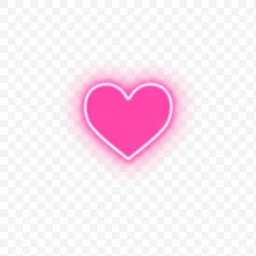
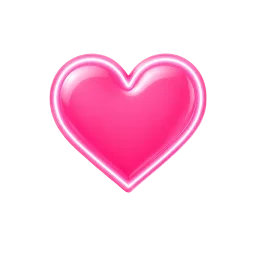
Hearts show lives, anchor to playfield, ignite on streak
- Anchor #heart-decor to the game background's bottom-right corner via
  --bg-left/--bg-right/--bg-bottom CSS vars set on each resize, so the
  hearts never bleed into the letterbox bars.
- Scale hearts with --game-scale (scale * viewScale) so they grow and
  shrink in lockstep with the cup and ball.
- Drive the two hearts as lives (2 - consecutiveMisses): dim a heart on
  a miss, flare both back with a pop-and-glow on reset.
- Add a flickering flame aura while a scoring streak is active, fading
  out gradually when the streak breaks.
- Replace heart.webp with the new artwork; cache-bust the img src.

Changed region(s): [[0.1875, 0.1875, 0.8125, 0.75]]

diff --git a/css/style.css b/css/style.css
@@ -313,26 +313,113 @@ button:active {
    into its place (see :fullscreen and the max-width:900px media query). */
 #heart-decor {
     position: absolute;
-    bottom: max(1.5rem, env(safe-area-inset-bottom, 1.5rem));
-    right: calc(max(1.5rem, env(safe-area-inset-right, 1.5rem)) + 54px + 0.6rem);
-    height: 54px;
+    bottom: calc(var(--bg-bottom, 0px) - 0.5rem);
+    right: calc(var(--bg-right, 0px) + max(0.75rem, env(safe-area-inset-right, 0.75rem)));
+    height: calc(74px * var(--game-scale, 1));
     z-index: 99;
     display: flex;
     align-items: center;
-    gap: 0.1rem;
+    gap: 0;
     pointer-events: none;
 }
 
 #heart-decor img {
-    width: 62px;
-    height: 62px;
+    width: calc(90px * var(--game-scale, 1));
+    height: calc(90px * var(--game-scale, 1));
     display: block;
+    margin-left: calc(-45px * var(--game-scale, 1));
+    transform-origin: center;
+    transition: opacity 0.18s ease, filter 0.18s ease, transform 0.18s ease;
 }
 
-/* Fullscreen mode hides the fullscreen button — hearts take its spot */
-:fullscreen #heart-decor,
-:-webkit-full-screen #heart-decor {
-    right: max(1.5rem, env(safe-area-inset-right, 1.5rem));
+#heart-decor img:first-child {
+    margin-left: 0;
+}
+
+/* A lost life — heart fades out fast and deflates slightly */
+#heart-decor img.heart-dim {
+    opacity: 0.22;
+    filter: grayscale(0.85) brightness(0.55);
+    transform: scale(0.78);
+}
+
+/* Lives refilled — both hearts pop back with a pink glow */
+#heart-decor img.heart-refill {
+    animation: heart-refill 0.6s cubic-bezier(0.34, 1.56, 0.64, 1);
+}
+
+@keyframes heart-refill {
+    0% {
+        opacity: 0.22;
+        filter: grayscale(0.85) brightness(0.55);
+        transform: scale(0.78);
+    }
+    45% {
+        opacity: 1;
+        filter: grayscale(0) brightness(1.5) drop-shadow(0 0 14px #ff4d97);
+        transform: scale(1.28);
+    }
+    70% { transform: scale(0.94); }
+    100% {
+        opacity: 1;
+        filter: none;
+        transform: scale(1);
+    }
+}
+
+/* On a scoring streak — hearts burn with a flickering flame aura */
+#heart-decor img.heart-fire {
+    animation: heart-fire 0.55s ease-in-out infinite;
+}
+/* second heart flickers out of sync so the fire looks alive */
+#heart-decor img.heart-fire:nth-child(2) {
+    animation-delay: -0.28s;
+}
+
+/* Streak broken — flame dies down gradually */
+#heart-decor img.heart-fire-out {
+    animation: heart-fire-out 0.6s ease-out forwards;
+}
+
+@keyframes heart-fire-out {
+    0% {
+        filter: drop-shadow(0 -3px 4px #ffd000)
+                drop-shadow(0 -6px 9px #ff7a00)
+                drop-shadow(0 -4px 15px #ff2500);
+    }
+    100% {
+        filter: drop-shadow(0 0 0 rgba(255, 208, 0, 0))
+                drop-shadow(0 0 0 rgba(255, 122, 0, 0))
+                drop-shadow(0 0 0 rgba(255, 37, 0, 0));
+    }
+}
+
+@keyframes heart-fire {
+    0% {
+        filter: drop-shadow(0 -2px 3px #ffd000)
+                drop-shadow(0 -5px 8px #ff8a00)
+                drop-shadow(0 -3px 13px #ff3000);
+    }
+    25% {
+        filter: drop-shadow(0 -4px 5px #ffe23a)
+                drop-shadow(0 -9px 12px #ff6a00)
+                drop-shadow(0 -6px 20px #ff1500);
+    }
+    50% {
+        filter: drop-shadow(0 -3px 4px #ffd000)
+                drop-shadow(0 -6px 9px #ff7a00)
+                drop-shadow(0 -4px 15px #ff2500);
+    }
+    75% {
+        filter: drop-shadow(0 -5px 6px #ffe23a)
+                drop-shadow(0 -11px 14px #ff5a00)
+                drop-shadow(0 -7px 22px #ff1000);
+    }
+    100% {
+        filter: drop-shadow(0 -2px 3px #ffd000)
+                drop-shadow(0 -5px 8px #ff8a00)
+                drop-shadow(0 -3px 13px #ff3000);
+    }
 }
 
 /* Score Display */
@@ -681,11 +768,7 @@ button:active {
 @media screen and (max-width: 900px) {
     #fullscreen-btn { display: none !important; }
     /* No fullscreen button on mobile — hearts take the rightmost spot */
-    #heart-decor {
-        right: max(1.5rem, env(safe-area-inset-right, 1.5rem));
-        height: 44px;
-    }
-    #heart-decor img { width: 50px; height: 50px; }
+    /* #heart-decor size is driven by --game-scale (set in engine.js) */
 }
 
 /* Mobile Adjustments */

diff --git a/js/engine.js b/js/engine.js
@@ -114,6 +114,8 @@ export function initGame(initialData = { pingpong: { score: 0, bestStreak: 0 }, 
 
         resizeCanvas();
         resetBall();
+        updateLives();
+        updateStreakFire();
         updateScoreDisplay();
     }
 
@@ -192,6 +194,18 @@ export function initGame(initialData = { pingpong: { score: 0, bestStreak: 0 }, 
 
         scale = Math.min(1, Math.max(0.4, height / 650));
         ball.radius = baseRadius * scale;
+
+        // Expose playfield edges + the visual scale (same factor the cup and
+        // ball are drawn at) as CSS vars so DOM overlays can anchor to the bg
+        // and scale with the screen.
+        const gameScreen = document.getElementById('game-screen');
+        if (gameScreen) {
+            const bgBottom = winH - (viewOffsetY + height * viewScale);
+            gameScreen.style.setProperty('--bg-left', viewOffsetX + 'px');
+            gameScreen.style.setProperty('--bg-right', viewOffsetX + 'px');
+            gameScreen.style.setProperty('--bg-bottom', bgBottom + 'px');
+            gameScreen.style.setProperty('--game-scale', (scale * viewScale).toFixed(4));
+        }
 
         // Preserve the ball's relative position across resizes.
         // resetBall() is called explicitly for initial placement and mode changes.
@@ -993,6 +1007,49 @@ export function initGame(initialData = { pingpong: { score: 0, bestStreak: 0 }, 
         }
     }
 
+    // --- Lives / hearts ---------------------------------------------------
+    function getHearts() {
+        return document.querySelectorAll('#heart-decor img');
+    }
+
+    // Sync the hearts to the current life count (2 - consecutiveMisses).
+    // Hearts are lost right-to-left: the right heart dims on the 1st miss.
+    function updateLives() {
+        const lives = 2 - consecutiveMisses;   // 2, 1, or 0
+        getHearts().forEach((h, i) => {
+            const lit = i === 0 ? lives >= 1 : lives >= 2;
+            h.classList.remove('heart-refill');
+            h.classList.toggle('heart-dim', !lit);
+        });
+    }
+
+    // Both hearts flare back to full with a pop-and-glow animation.
+    function refillLives() {
+        getHearts().forEach(h => {
+            h.classList.remove('heart-refill', 'heart-dim');
+            void h.offsetWidth;   // restart the animation
+            h.classList.add('heart-refill');
+            setTimeout(() => h.classList.remove('heart-refill'), 600);
+        });
+    }
+
+    // Hearts catch fire while a scoring streak (bonus tier) is active.
+    // When the streak breaks, the flame dies down gradually rather than
+    // cutting out at once.
+    function updateStreakFire() {
+        const onFire = consecutiveHits >= 3;
+        getHearts().forEach(h => {
+            if (onFire) {
+                h.classList.remove('heart-fire-out');
+                h.classList.add('heart-fire');
+            } else if (h.classList.contains('heart-fire')) {
+                h.classList.remove('heart-fire');
+                h.classList.add('heart-fire-out');
+                setTimeout(() => h.classList.remove('heart-fire-out'), 600);
+            }
+        });
+    }
+
     function handleScore() {
         const prevBonus = Math.floor(consecutiveHits / 3);
         const points = 1 + prevBonus;
@@ -1026,6 +1083,8 @@ export function initGame(initialData = { pingpong: { score: 0, bestStreak: 0 }, 
             showToast(`+1`, 'score');
         }
 
+        updateLives();   // a successful shot restores any lost chance
+        updateStreakFire();
         updateScoreDisplay();
     }
 
@@ -1033,6 +1092,7 @@ export function initGame(initialData = { pingpong: { score: 0, bestStreak: 0 }, 
         wasThrown = false;
         const hadBonus = consecutiveHits >= 3;
         consecutiveHits = 0;
+        updateStreakFire();   // streak broken — put the hearts out
 
         const box = document.getElementById('score-area');
 
@@ -1063,6 +1123,11 @@ export function initGame(initialData = { pingpong: { score: 0, bestStreak: 0 }, 
                 box.classList.add('flash-reset');
                 setTimeout(() => box.classList.remove('flash-reset'), 800);
             }
+            // Last life lost: dim the final heart, then flare both back to full.
+            getHearts().forEach(h => h.classList.add('heart-dim'));
+            setTimeout(refillLives, 280);
+        } else {
+            updateLives();   // first miss: dim one heart
         }
 
         updateScoreDisplay();

diff --git a/js/views/Game.js b/js/views/Game.js
@@ -102,8 +102,8 @@ export default function Game() {
             </div>
 
             <div id="heart-decor" aria-hidden="true">
-                <img src="assets/heart.webp" alt="">
-                <img src="assets/heart.webp" alt="">
+                <img src="assets/heart.webp?v=2" alt="">
+                <img src="assets/heart.webp?v=2" alt="">
             </div>
 
             <button id="fullscreen-btn" aria-label="Toggle Fullscreen">